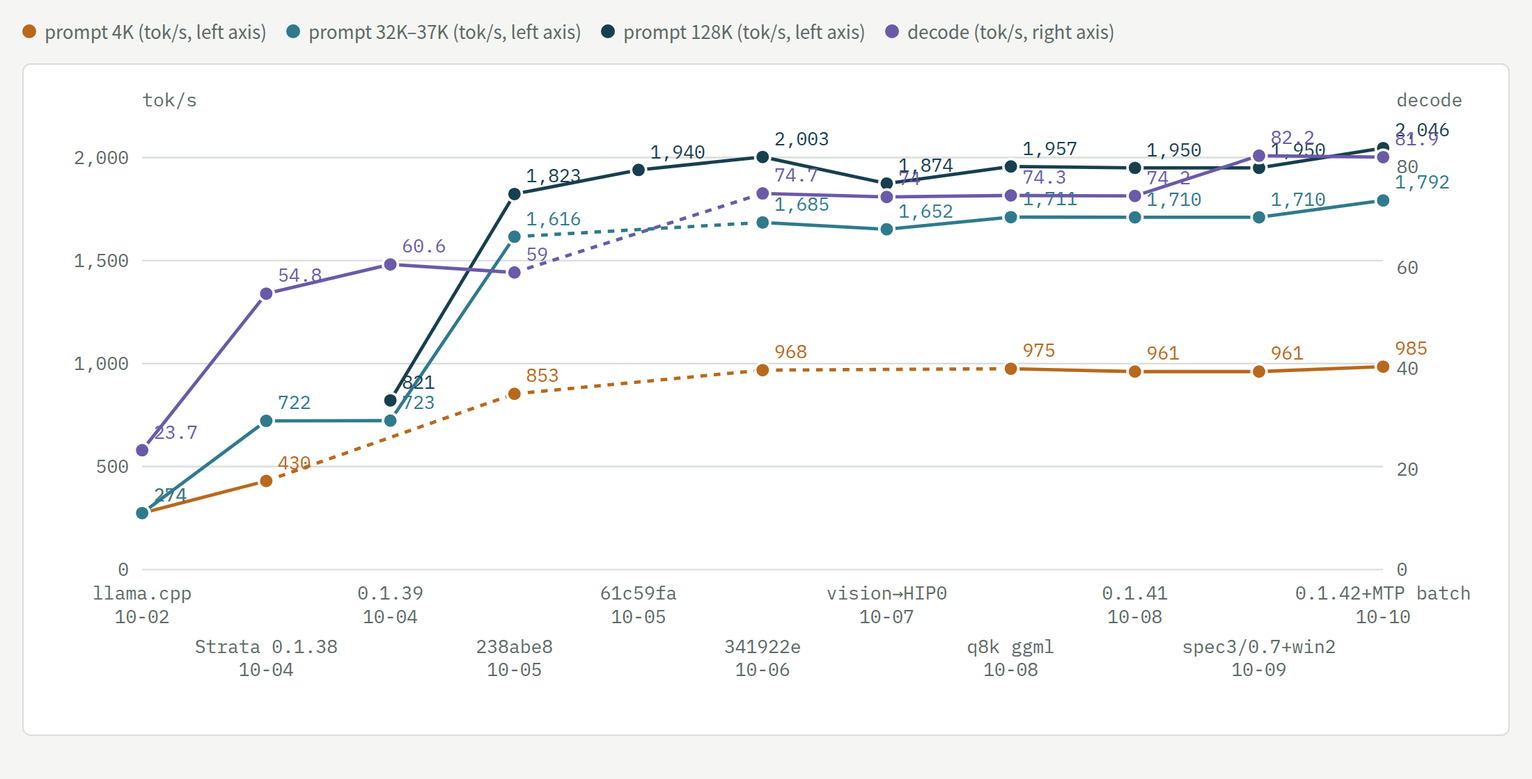
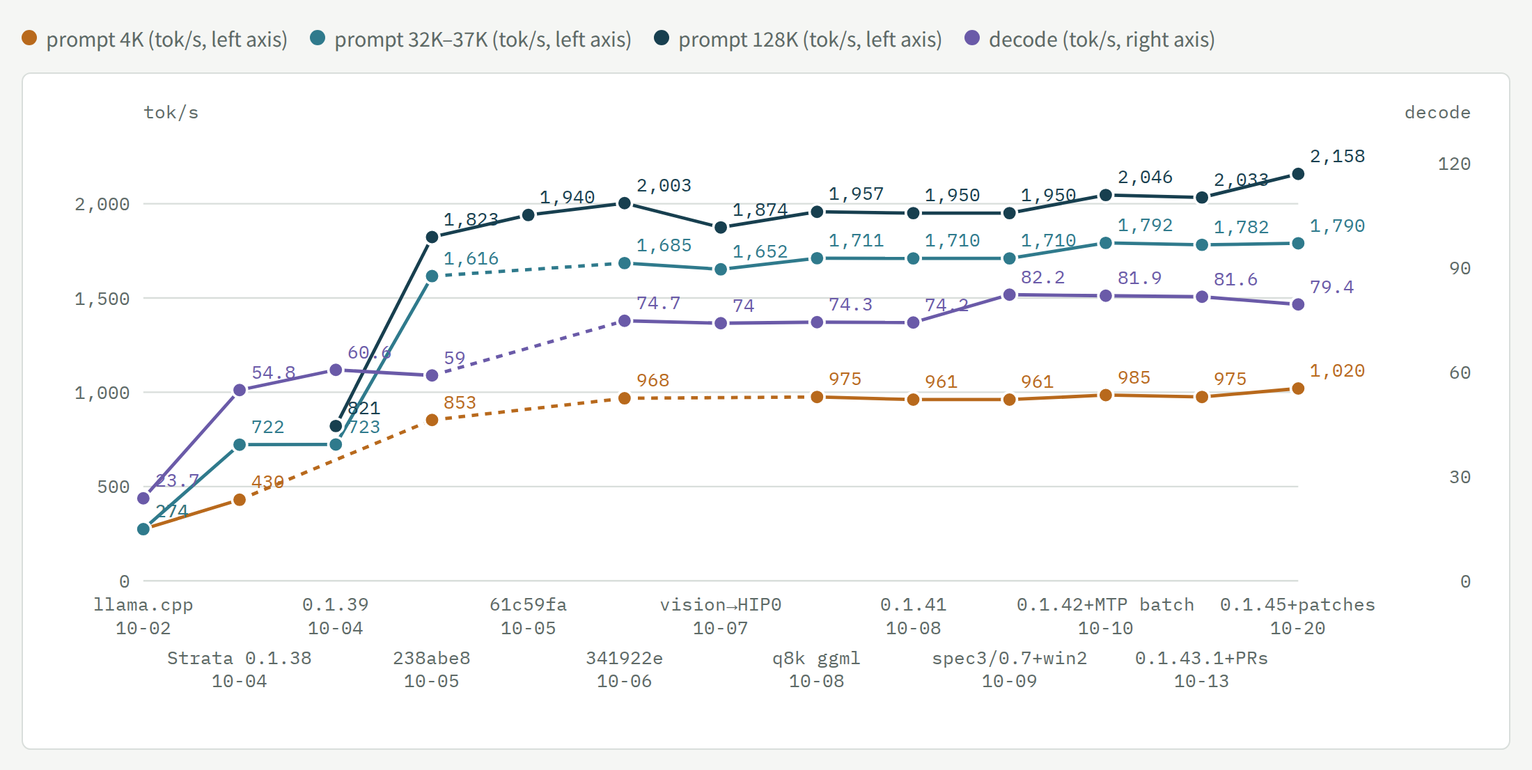
Production to 10-20 (strata-145-pa-a6572b34, E504: 1,020 / 1,790 / 2,158 tok/s, decode 80 / 79 / 74): timeline 10-13 to 10-20, mechanisms and mistakes, 0.2.0-beta report #3426 and PRs #3381 / #3382 / #3073 / #3095; now cards and speed chart re-rendered (tools/render_charts.py)
The speed chart gets the 10-20 point, a 0-130 right axis and a wider right margin so the decode line and the last labels no longer sit on the prompt lines; the "batch slots do not help this box" conclusion of 10-08 is marked overturned (production runs "parallel": 2 since 10-15).

diff --git a/index.html b/index.html
@@ -73,20 +73,20 @@ code{font-family:var(--f-data);font-size:.92em}
 <body>
 <div class="wrap">
 <header>
-  <div class="eyebrow">AiBox · 2× RX 6900 XT · Qwen3.8-Flash-Next IQ3_S · 09-30 → 10-13</div>
+  <div class="eyebrow">AiBox · 2× RX 6900 XT · Qwen3.8-Flash-Next IQ3_S · 09-30 → 10-20</div>
   <h1>Flash-Next 调优时间线</h1>
   <p class="lede">同一个模型（IQ3_S）在这台机器上从 llama.cpp 换到 Strata，再一步步叠加改动。每一步写了当时为什么这么做和实测效果；虚线框是试过但没采用的方向。速度一律指双卡 layer split。</p>
 </header>
 
 <section>
-  <h2>现在（strata-144-hcpa-efa52cd1：0.1.44 + 常驻 hc 读 + E387 解码配置 + SPLIT_MTP_BATCH）</h2>
+  <h2>现在（strata-145-pa-a6572b34：0.1.45 + #2985 流水 MTP + 5 个自有补丁 + E387 解码配置）</h2>
   <div class="now">
-    <div><b>985</b><small>4K prompt tok/s（E415）</small></div>
-    <div><b>1,792</b><small>32K prompt tok/s（E415；三轮均值 1,829）</small></div>
-    <div><b>2,046</b><small>128K prompt tok/s（E415，无图片编码器）</small></div>
-    <div><b>77 / 82 / 75</b><small>解码 tok/s，4K / 32K / 128K（E415；真实会话 138K 上下文 78）；之前 66–75</small></div>
+    <div><b>1,020</b><small>4K prompt tok/s（E504，三次中位）</small></div>
+    <div><b>1,790</b><small>32K prompt tok/s（E504）</small></div>
+    <div><b>2,158</b><small>128K prompt tok/s（E504，无图片编码器；10-10 是 2,046）</small></div>
+    <div><b>80 / 79 / 74</b><small>解码 tok/s，4K / 32K / 128K（E504，单请求）；两路并发合计 60–64（E481）</small></div>
   </div>
-  <p class="foot">生产（10-13 20:10 起）= Strata 上游 0.1.44 + STRATA_SPLIT_MTP_BATCH=1 + 7 个本地补丁（PR #1149 / #1151 / #1167 + rocBLAS 解的本机缓存）+ 验证器 hc 读常驻内核（PR #2226，STRATA_HC_PERSIST=1）+ 自改的 llama.cpp ggml（MMQ 的 q8_0 / iq3_s dot 链头用 VOP3P 编码）；对 0.1.42 底座的同一套（回退槽）32K 每窗 −1.4%，其余噪声内（E455）。上面四个数是 E415（常驻 hc 读之前）；常驻 hc 读之后每个验证窗口再短 2.5–2.8%（E427）和 0.8–1.4%（E439），tok/s 没按 E415 的方法重测。UD-Q4 槽仍在 0.1.42。</p>
+  <p class="foot">生产（10-19 20:30 起）= Strata 上游 0.1.45 + #2985 流水 MTP（STRATA_PIPED_MTP=2，JacobSussan）+ 自有补丁：单路保留 pipeline-windows（STRATA_PW_WITH_BATCH=1，PR #3095）、HIP 上的 SIMT=2 打分（PR #3073）、--batch 下的 CPU 分担（PR #3382）、RDNA2 读 prompt 注意力（PR #3381）、rocBLAS 解的本机缓存 + STRATA_PREFILL_STREAM_MIN=2048 + 自改的 llama.cpp ggml（MMQ dot 链头用 VOP3P 编码）；验证器 hc 常驻读（#2226）等早先的 PR 已在上游。两路并发（parallel 2）。四个数是 E504（同 E415 的合成负载 benchmark.py，三次中位）。</p>
 </section>
 
 <section>
@@ -123,7 +123,7 @@ code{font-family:var(--f-data);font-size:.92em}
   <h2>已经到地板的（10-08 后别再提）</h2>
   <ul class="closed">
     <li><b>解码的配置级旋钮单独调都到头了：</b><code>--kv-resident</code> 缩小（E382，专家槽只 +0.7%）、单开 <code>--pipeline-windows 2</code>（E384，+1–6%）、<code>--spec</code> × <code>--spec-min-p</code> 16 点网格（E385，pipeline-windows 1 下 4/0.5 是峰值）。<b>但组合有效</b>：spec 3 / min-p 0.7 + pipeline-windows 2 解码 +10–16%（E387，三轮确认，10-09 上生产）。</li>
-    <li><b>并发批槽：</b>常驻专家 41% 低于上游门槛 50%，槽里不带 MTP，2 路并发总吞吐不如单路（上游表）。</li>
+    <li><b>并发批槽（10-08 的结论，10-15 推翻）：</b>当时常驻专家 41% 低于上游门槛、槽里不带 MTP；加上槽位草稿、单路保留流水窗口和后来的 #2985 后，两路并发已是生产（parallel 2）。</li>
     <li><b>IQ3_S 的 MMQ 分块 / stream-K</b>（E279/E280）、<code>--prefill</code> chunk 8192 即甜点（E296）、张量并行（E234，+6%）。</li>
     <li><b>上游自己测过对小卡无益：</b>GDN 分块（需 128 SM）、Foresight 交换槽（解码变慢）、STAGE_PIN（IQ3_S 损坏，改回 opt-in）。</li>
     <li><b>0.1.42 的 opt-in（E413）和把 llama.cpp MMQ 补丁带进 Strata（E414）：</b>只有 <code>STRATA_SPLIT_MTP_BATCH=1</code> 过线（已上生产）；TAIL_SKIP / ROUTE_RESIDENT / aux-cpus 在噪声内或更慢，RESIDENT_SORT / PF_FUSED 本机不触发；ggml 补丁在 Strata 的专家 GEMM 上 ±1%。</li>
@@ -153,14 +153,15 @@ const M=[
   {k:'spec3/0.7+win2\n10-09',p4:961,p32:1710,p128:1950,d:82.2},
   {k:'0.1.42+MTP batch\n10-10',p4:985,p32:1792,p128:2046,d:81.9},
   {k:'0.1.43.1+PRs\n10-13',p4:975,p32:1782,p128:2033,d:81.6},
+  {k:'0.1.45+补丁\n10-20',p4:1020,p32:1790,p128:2158,d:79.4},
 ];
 (function(){
-  const W=860,H=372,L=56,R=60,T=16,B=84;
+  const W=860,H=372,L=56,R=110,T=16,B=84;
   const svg=el('svg',{viewBox:`0 0 ${W} ${H}`});
   const xs=i=>L+(W-L-R)*i/(M.length-1);
-  const yl=v=>T+(H-T-B)*(1-v/2200), yr=v=>T+(H-T-B)*(1-v/90);
+  const yl=v=>T+(H-T-B)*(1-v/2400), yr=v=>T+(H-T-B)*(1-v/130);
   [0,500,1000,1500,2000].forEach(v=>{svg.append(el('line',{x1:L,x2:W-R,y1:yl(v),y2:yl(v),stroke:'var(--rule)'}));svg.append(el('text',{x:L-8,y:yl(v)+4,'text-anchor':'end'},v.toLocaleString('en-US')));});
-  [0,20,40,60,80].forEach(v=>svg.append(el('text',{x:W-R+8,y:yr(v)+4},String(v))));
+  [0,30,60,90,120].forEach(v=>svg.append(el('text',{x:W-6,y:yr(v)+4,'text-anchor':'end'},String(v))));
   M.forEach((m,i)=>{m.k.split('\n').forEach((s,j)=>svg.append(el('text',{x:xs(i),y:H-B+18+j*14+(i%2)*32,'text-anchor':'middle'},s)));});
   const series=[['p4','var(--l-stable)',yl],['p32','var(--l-prompt)',yl],['p128','var(--l-engine)',yl],['d','var(--l-decode)',yr]];
   series.forEach(([key,col,y])=>{
@@ -173,7 +174,7 @@ const M=[
       svg.append(el('text',{x:xs(i)+7,y:y(v)-7,style:`fill:${col}`},v>=1000?v.toLocaleString('en-US'):String(v)));});
   });
   svg.append(el('text',{x:L,y:10},'tok/s'));
-  svg.append(el('text',{x:W-R+8,y:10},'解码'));
+  svg.append(el('text',{x:W-6,y:10,'text-anchor':'end'},'解码'));
   document.getElementById('speed').append(svg);
 })();
 
@@ -253,6 +254,15 @@ const S=[
  ['10-13','13:46','prompt','时间分解：原版对比调优后（E449，README 0.5 节）','同一版本 0.1.43.1 上把两边的 prompt 与解码按阶段拆开',[['prompt ×2.1~2.3（GDN 段 594 → 153 ms/千 token），解码 ×1.23~1.30','up'],['调优后专家段成了 prompt 最大的一块','flat']]],
  ['10-13','15:42','drop','prompt 专家段：MMQ 上限、tile 宽度、原地读（E450–E452）','专家段占调优后 prompt 的 ~37%，看还能不能挖',[['MMQ 在真实形状上 28–34 TOPS 封顶；换 tile 宽度不省时','flat'],['原地读、不再搬运（输出逐位相同）只 +0.5%，不采用','down']]],
  ['10-13','18:29','drop','0.1.44 的 STRATA_HC_Q8 在 gfx1030（E454）','hc 投影改读 Q8_0，RDNA4 上默认开、解码 +2.5~4%；它会让常驻 hc 读让位',[['每窗 4K +2.4%、32K +1.0%（更慢），prompt −0.7~1%','down'],['本机 hc 读受发射限制，不受带宽限制','flat']]],
+ ['10-13','23:40','prompt','#2071 的 SIMT=2 打分在 HIP 上接通（E457）','上游的 =2 只在 CUDA 生效，HIP 上静默退回 warp 核',[['prompt +1%（0.1.44）；0.2.0 上 119K −6.5%（E503，10/10）','up'],['送 PR #3073','flat']]],
+ ['10-15','19:30','decode','两路并发 A/B/C（E463–E470，strata-144-pmtp-a380c2c0）','parallel 2 下第二个请求要等 12 s；--batch 还关掉了单路的 pipeline-windows',[['第二请求首字 12 → 0.5 s，长读插短 37 → 8 s，两路 +6%','up'],['A = 单路保留 pipeline-windows（PR #3095）','flat']]],
+ ['10-18','13:09','engine','生产升 0.1.45（strata-145-acx，E475）','原版 0.1.45 缺 A，单路解码 −11~16%；带上 A + C + SIMT2 后持平',[['与旧生产打平，补丁从 9 个减到 3 个','flat']]],
+ ['10-18','21:10','decode','上游 #2985 流水 MTP 换掉我们的 C（E481）','JacobSussan 的延迟提交做法：接受后不回填重算',[['两路总吞吐 +13%，单路与交接不变，找针 14/14','up']]],
+ ['10-19','02:20','prompt','STRATA_PREFILL_STREAM_MIN=2048（E482–E485）','<2K 的短 prompt 有 43–54% 时间在等 PCIe 搬专家',[['真实文本 1.1–1.5K −6~17%，≥2048 不变','up'],['合成提示词让 3072 看起来更好，真实文本否掉','flat']]],
+ ['10-19','17:40','prompt','--batch 下也用 CPU 分担（E493/E494，PR #3382）','上游 batch>0 时直接关掉 CPU 分担',[['<2048 token 的读 −20~35%，续写 455 token 1.86 → 1.25 s','up'],['≥2048 与并发不变','flat']]],
+ ['10-19','20:30','prompt','RDNA2 读 prompt 注意力（E495–E498e，PR #3381）','gfx103x 读 prompt 借用解码内核：64 单元切块 + 合并',[['注意力每块 500 → 355 ms，34K / 133K −3.5%','up'],['质量门（8 段对 FP64 注意力参照）不劣','flat']]],
+ ['10-19','22:15','drop','SeqMoE 式专家预取的上界（E499）','26.6 万条真实 agent 路由回放',[['现缓存命中 85%，高于全知静态集；完美的 8 窗预测器也不更好','down'],['杠杆是每窗换入量，不是预测','flat']]],
+ ['10-20','03:10','engine','两个补丁按上游新规在 0.2.0 上复测并发 PR（E501–E503）','setup.py 构建、逐字节默认路径、ctest、10 对交错、FP64 参照质量门、CUDA 13.2 编译',[['#3381 −3.49%（10/10）、#3382 短读 −28.8%（10/10）','up'],['#3073 / #3095 在 0.2.0 上 −6.5% / +12~16%','up']]],
  ['10-13','20:10','engine','生产升 0.1.44（strata-144-hcpa-efa52cd1，E454/E455）','补丁合入只有 setup.py 一处冲突；用生产配置原样对现生产 A/B',[['32K 每窗 −1.4%（3/3），其余噪声内，0 停转','up'],['UD-Q4 槽不升：K-quant prompt 要 STRATA_MMQ_KQ=1，加后解码 −1.2%','flat']]],
 ];
 const on=new Set(Object.keys(LANES));

diff --git a/tools/render_charts.py b/tools/render_charts.py
@@ -1,0 +1,61 @@
+#!/usr/bin/env python3
+"""Render the README images from index.html: the "now" cards and the speed chart, light and dark, Chinese and English.
+
+    CHROME=/path/to/chrome-headless-shell python3 tools/render_charts.py [en.json]
+
+Each image is index.html with only one section left, a fixed theme (data-theme), and for English the section's Chinese
+strings replaced from en.json ({"中文": "English", ...}). Output: docs/now-{en,zh}-{light,dark}.png and
+docs/speed-chart-en-{light,dark}.png and docs/speed-chart-{light,dark}.png (Chinese) (2200 px wide, device scale 2.2); OUT=dir writes them elsewhere."""
+import json, os, re, subprocess, sys, tempfile
+
+ROOT = os.path.dirname(os.path.dirname(os.path.abspath(__file__)))
+CHROME = os.environ.get("CHROME", "chrome-headless-shell")
+OUT = os.environ.get("OUT", os.path.join(ROOT, "docs"))   # where the PNGs go
+EN = json.load(open(sys.argv[1], encoding="utf-8")) if len(sys.argv) > 1 else {}
+SRC = open(os.path.join(ROOT, "index.html"), encoding="utf-8").read()
+# target -> (index of the <section> to keep, CSS width in px, extra CSS); the height is trimmed to the content afterwards
+TARGETS = {"now": (0, 1000, ""),
+           "speed-chart": (1, 1000, "section h2,section .panel+.foot,section p.foot{display:none!important}")}
+
+def page(section, theme, lang, extra):
+    html = SRC.replace('<html lang="zh-CN">', f'<html lang="{"en" if lang == "en" else "zh-CN"}" data-theme="{theme}">')
+    keep = f"section:nth-of-type({section + 1})"
+    css = (f"<style>header,section:not({keep}),.wrap>p.foot{{display:none!important}}"
+           f".wrap{{max-width:none!important;margin:0!important;padding:14px!important}}body{{margin:0}}{extra}</style></head>")
+    html = html.replace("</head>", css, 1)
+    if lang == "en":
+        for zh, en in sorted(EN.items(), key=lambda kv: -len(kv[0])):   # longest first, so phrases win over words
+            html = html.replace(zh, en)
+    return html
+
+def trim(path, pad=30):
+    """Cut the rows below the content: the bottom rows that are all the page background."""
+    from PIL import Image
+    im = Image.open(path).convert("RGB")
+    w, h = im.size
+    bg = im.getpixel((2, h - 2))
+    px = im.load()
+    y = h - 1
+    while y > 0 and all(px[x, y] == bg for x in range(0, w, 4)):
+        y -= 1
+    im.crop((0, 0, w, min(h, y + pad))).save(path)
+
+def main():
+    os.makedirs(OUT, exist_ok=True)
+    with tempfile.TemporaryDirectory() as tmp:
+        for name, (sec, w, extra) in TARGETS.items():
+            for lang in ("zh", "en"):
+                for theme in ("light", "dark"):
+                    f = os.path.join(tmp, f"{name}-{lang}-{theme}.html")
+                    open(f, "w", encoding="utf-8").write(page(sec, theme, lang, extra))
+                    # the Chinese speed chart keeps its first name (speed-chart-light.png), which README.zh-CN.md links
+                    stem = f"{name}-{theme}" if (name == "speed-chart" and lang == "zh") else f"{name}-{lang}-{theme}"
+                    out = os.path.join(OUT, stem + ".png")
+                    subprocess.run([CHROME, "--headless", "--no-sandbox", "--disable-gpu", "--hide-scrollbars", "--force-device-scale-factor=2.2",
+                                    f"--window-size={w},1400", f"--screenshot={out}", "--virtual-time-budget=3000",
+                                    "file://" + f], check=True, capture_output=True)
+                    trim(out)
+                    print(out)
+
+if __name__ == "__main__":
+    main()

diff --git a/README.md b/README.md
@@ -11,12 +11,12 @@
 
 <picture>
   <source media="(prefers-color-scheme: dark)" srcset="docs/speed-chart-en-dark.png">
-  <img alt="Prompt and decode speed, step by step, llama.cpp 10-02 to Strata 0.1.42 10-10" src="docs/speed-chart-en-light.png" width="100%">
+  <img alt="Prompt and decode speed, step by step, llama.cpp 10-02 to Strata 0.1.45 + patches 10-20" src="docs/speed-chart-en-light.png" width="100%">
 </picture>
 
-*Prompt tok/s at 4K, 32K–37K and 128K (left axis) and decode tok/s (right axis) at each production state. Points come from different experiments under slightly different conditions (the 4K points of the first two steps are 5K prompts; the notes under the chart on the interactive page list the rest); a dashed segment bridges a step where that metric was not measured.*
+*Prompt tok/s at 4K, 32K–37K and 128K (left axis) and decode tok/s (right axis) at each production state. Points come from different experiments under slightly different conditions (the 4K points of the first two steps are 5K prompts; the last point is E504, the E415 load on the 10-20 production; the notes under the chart on the interactive page list the rest); a dashed segment bridges a step where that metric was not measured.*
 
-Tuning log for **Qwen3.8-Flash-Next (GSQ-RCO IQ3_S)** on a home box with **2x AMD RX 6900 XT (gfx1030, PCIe 4.0 x8 each) / Ryzen 5 5600X / 128 GB DDR4**, ROCm 10.0 — from llama.cpp to [Strata](https://github.com/Niko1221/Strata), 2026-09-21 → 10-08. Experiment numbers (E…) refer to the author's lab notebook (not public). Every number is measured on this machine unless marked as an estimate.
+Tuning log for **Qwen3.8-Flash-Next (GSQ-RCO IQ3_S)** on a home box with **2x AMD RX 6900 XT (gfx1030, PCIe 4.0 x8 each) / Ryzen 5 5600X / 128 GB DDR4**, ROCm 10.0 — from llama.cpp to [Strata](https://github.com/Niko1221/Strata), 2026-09-21 → 10-20. Experiment numbers (E…) refer to the author's lab notebook (not public). Every number is measured on this machine unless marked as an estimate.
 
 **`patches/llama.cpp/`** — eight llama.cpp patches on upstream `159c651f5`: 1–7 are the RDNA2 MMQ work behind the `q8k ggml` step (wider tiles, mad24 scales, Q8_K-style activations, VOP3P dot-chain heads), 8 is an int8 QK^T flash-attention tile kernel for a q8_0 K cache; build flags and measured effects in [their README](patches/llama.cpp/README.md). Strata picks the MMQ ones up through `-DSTRATA_GGML_DIR`. They were made on the dense **Qwen3.8-27B** that the same two cards serve through llama.cpp — that line of work is in [section 4](#4-the-dense-27b-on-the-same-box-qwen38-27b-ud-q5_k_xl-on-llamacpp-qwen38-tp).
 
@@ -38,11 +38,11 @@ Tuning log for **Qwen3.8-Flash-Next (GSQ-RCO IQ3_S)** on a home box with **2x AM
 
 ## 0. Where it stands
 
-- **Production (since 10-13 20:10):** Strata upstream **0.1.44** + 7 local patches (upstream PRs #1149 / #1151 / #1167 + a per-device rocBLAS solution cache) + the verifier's hc read as one persistent kernel ([#2226](https://github.com/Niko1221/Strata/pull/2226), `STRATA_HC_PERSIST=1`) + a modified llama.cpp ggml (MMQ dot-chain heads in the VOP3P encoding on RDNA2), `strata-144-hcpa-efa52cd1`; rollback slot `strata-split-prev` = `strata-142-hcpa-2712fb13` (the same on 0.1.42). Against it, with the production config as is (E455): 32K decode −1.4% per verify window (3 of 3 rounds), 4K, prompt and 128K within noise, no stalls. Two-card layer split, IQ3_S experts, int8 KV, MTP `--spec 3 --spec-min-p 0.7 --pipeline-windows 2` (E387) and `STRATA_SPLIT_MTP_BATCH=1` (E413). `STRATA_HC_Q8` (on by default on RDNA4 in 0.1.44) excludes the persistent read and is 1–2.4% slower per window on gfx1030 (E454), so it stays off. The `strata-ud-q4` slot (Unsloth UD-Q4_K_XL) stays on 0.1.42 (`strata-142-kq-hcpa-2712fb13`): on 0.1.44 its K-quant prompt kernels need `STRATA_MMQ_KQ=1` (without it prompts are 30–37% slower), and with it decode was 1.2% slower at 32K. Upstream #884 does not reproduce on 0.1.43.1 or 0.1.44 stock here (E453 / E454).
-- **Speed (production config, E415, no vision encoder):** prompt 985 / 1,792 / 2,046 tok/s at 4K / 32K / 128K, decode 77 / 82 / 75; the persistent hc read then took 2.5–2.8% off every verify window (E427) and its adaptive form another 0.8–1.4% (E439) - tok/s not re-measured the E415 way. On 0.1.43.1 with the same bundle and the timing switches on (E449, section 0.5): 926 / 1,729 / 1,968, decode 77.4 / 79.8 / 78.9. UD-Q4_K_XL on the same split with the same decode config (E423): 748 / 1,738 / 1,976, decode 51 / 52 / 50; on one card 676 / 1,117 / 1,087, decode 32–33. Full comparisons in the community reports [#1927](https://github.com/Niko1221/Strata/pull/1927) (0.1.42) and [#2237](https://github.com/Niko1221/Strata/pull/2237) (0.1.43.1).
+- **Production (since 10-19 20:30):** `strata-145-pa-a6572b34` = Strata upstream **0.1.45** + #2985's pipelined MTP (`STRATA_PIPED_MTP=2`, JacobSussan) + five patches of ours: the solo path keeps `--pipeline-windows` beside batch slots (`STRATA_PW_WITH_BATCH=1`, [#3095](https://github.com/Niko1221/Strata/pull/3095)), #2071's SIMT=2 scorer on HIP ([#3073](https://github.com/Niko1221/Strata/pull/3073)), the prompt's CPU share beside `--batch` (`STRATA_PREFILL_CPU_SHARE_BATCH=1`, [#3382](https://github.com/Niko1221/Strata/pull/3382)), a gfx103x prompt-attention kernel (`STRATA_PROMPT_ATTN_RDNA2=1`, [#3381](https://github.com/Niko1221/Strata/pull/3381)), a per-device rocBLAS solution cache; plus `STRATA_PREFILL_STREAM_MIN=2048` and the modified llama.cpp ggml (MMQ dot-chain heads in VOP3P). The earlier PRs (#1149, #1151, #1167, #1992, #2226) are in upstream main. Two parallel slots (`"parallel": 2`), layer split, IQ3_S experts, int8 KV, `--spec 3 --spec-min-p 0.7 --pipeline-windows 2`. Rollback slot `strata-split-prev` = the same without the attention kernel.
+- **Speed (E504, the E415 load, no vision encoder, median of 3):** prompt **1,020 / 1,790 / 2,158** tok/s at 4K / 32K / 128K (E415 on 10-10: 985 / 1,792 / 2,046), decode **80 / 79 / 74** for one request; two requests at once 60–64 tok/s together (E481), a second request's first token 0.5 s instead of 12 s (E463–E470). Short prompts: a 430-token read 1.1 s (was 1.7 s, E493). Upstream **0.2.0-beta** stock on the same box and settings (E503, community report [#3426](https://github.com/Niko1221/Strata/pull/3426)): 979 / 1,662 tok/s at 4K / 32K with its own suite, 1,893 at 119K real text, decode 66 for one request - our patches are the difference (each re-measured on 0.2.0 in the PRs above).
 - **Whole journey, same IQ3_S model:** decode 26 → 66–75 tok/s (≈2.7×), 37K/50K prompt 274 → ~1,700 tok/s (≈6×). The engine switch (llama.cpp → Strata) is most of it; the patches and configuration after that add about +50% prompt (714 → 1,433 → 1,705 → 1,711) and about +20% decode.
-- **Closed directions (measured; do not retry on this box):** every decode-side configuration knob — `--kv-resident` shrink (E382), `--pipeline-windows 2` alone (E384, +1–6%), the 16-point `--spec` × `--spec-min-p` grid at `--pipeline-windows 1` (E385, 4/0.5 is the peak of accepted tokens per window) — **but the combination works**: `--spec 3 --spec-min-p 0.7 --pipeline-windows 2` decodes +10–16% at 4K and +8–11% at 32K (E387, three confirmation rounds; the short draft is accepted 83% of the time instead of 68%, so the speculative second window hits). Prompt speed unchanged; output differs between starts (the baseline is deterministic); 128K +11% in the no-vision-encoder configuration (E388); in production since 10-09 00:16; batch slots (resident experts 41% < upstream's 50% gate, slots decode without MTP); MMQ tile / stream-K for IQ3_S (E279/E280); `--prefill` chunks other than 8192 (E296); tensor parallel (E234, +6%); and the upstream opt-ins that upstream itself measured as neutral or negative on small cards (chunked GDN, Foresight swap slots, pinned stage buffers).
-- **What is left:** the PCIe topology (x16 + x4 would give ~1.5× on long prompts but breaks RCCL tensor parallel for the dense 27B model on the same box - a trade the owner has not made). The prompt's experts, now its largest part, are closed (E450–E452, section 0.5); decode is at its floor for this VRAM (expert hits and draft acceptance). Four engine PRs were re-measured on 0.1.43.1 with ten interleaved pairs each on 10-13 (#2226, #1167, #1992, #1151) and wait for upstream.
+- **Closed directions (measured; do not retry on this box):** every decode-side configuration knob — `--kv-resident` shrink (E382), `--pipeline-windows 2` alone (E384, +1–6%), the 16-point `--spec` × `--spec-min-p` grid at `--pipeline-windows 1` (E385, 4/0.5 is the peak of accepted tokens per window) — **but the combination works**: `--spec 3 --spec-min-p 0.7 --pipeline-windows 2` decodes +10–16% at 4K and +8–11% at 32K (E387, three confirmation rounds; the short draft is accepted 83% of the time instead of 68%, so the speculative second window hits). Prompt speed unchanged; output differs between starts (the baseline is deterministic); 128K +11% in the no-vision-encoder configuration (E388); in production since 10-09 00:16; batch slots as evaluated on 10-08 (resident experts 41% < upstream's 50% gate, slots decode without MTP; **overturned 10-15**: with slot drafts, the solo path kept pipelined and later #2985, `"parallel": 2` is production); MMQ tile / stream-K for IQ3_S (E279/E280); `--prefill` chunks other than 8192 (E296); tensor parallel (E234, +6%); and the upstream opt-ins that upstream itself measured as neutral or negative on small cards (chunked GDN, Foresight swap slots, pinned stage buffers).
+- **What is left:** the PCIe topology for long prompts (x8/x8 kept: on Strata a long prompt waits on PCIe only 0.2–0.7% of the time, but a <2K one 43–54%, E482); more expert swaps per decode window (E499: the adaptive cache already hits 85%, a perfect 8-window predictor would not beat it at today's swap rate - the swap budget is the lever, untested). Four PRs wait for upstream review on 0.2.0-beta (#3381, #3382, and #3073 / #3095 reopened 10-20 with the E503 numbers).
 
 ## 0.5 Where the time goes: stock against tuned (0.1.43.1, E449)
 
@@ -143,6 +143,15 @@ The numbers in the charts (the phases are estimates, the totals measured; prompt
 | 10-08 21:27 | E384 `--pipeline-windows 2` | decode +1–6% but outputs differ between starts (2/7 same), 4K prompt −1–5%; dropped |
 | 10-08 21:50 | E385 `--spec` × `--spec-min-p`, 16 points | only 5/0.6 at 32K +2.5% (single run); the rest negative; 4/0.5 kept |
 | 10-08 22:50 | batch slots evaluated | resident experts 41% < upstream gate 50%; slots decode without MTP; not for this box |
+| 10-13 23:40 | production → `strata-144-hcps-fb15a4e6`: #1151 plus #2071's `STRATA_SELECT_SIMT=2` scorer, which upstream compiled for CUDA only and silently fell back on HIP (E457) | prompt +1% over the SGEMM scorer; later sent as #3073 |
+| 10-15 | two or three requests at once (`"parallel": 2`, E463–E470): A = keep `--pipeline-windows` for a lone request beside batch slots (`STRATA_PW_WITH_BATCH=1`), B = a long read yields at chunk boundaries, C = slot drafts in the pipelined groups (davidbhoward's work, ported) | a second request's first token 12 → 0.5 s, a short request beside a long read 37 → 8 s, two streams +6%; single-stream decode −2–6% against the solo setup; production 10-15 19:30 (`strata-144-pmtp-a380c2c0`); A sent as #3095 |
+| 10-18 13:09 | upstream 0.1.45 (E475): stock lacks A, so a lone request decodes 11–16% slower; 0.1.45 + A + C + SIMT=2 matches the old production | production `strata-145-acx-2e127c66` |
+| 10-18 21:10 | upstream #2985 (`STRATA_PIPED_MTP=2`, JacobSussan) in place of our C (E481) | two-stream throughput +13% over C, single stream and the long-read hand-over unchanged, needle 14/14; production `strata-145-2985-3f53fb74` |
+| 10-19 02:20 | `STRATA_PREFILL_STREAM_MIN=2048` (E482–E485): below the full-streaming chunk size a short read copies only its routed experts over PCIe, and that wait is 43–54% of a <2K-token read | real-text 1,090–1,542-token prompts −6–17%, a 779-token continuation −7%, ≥2,048 unchanged; 3072 was slower at 2–3K (E485). A synthetic word-list prompt made 3072 look better (E483) - routing-sensitive switches need real text |
+| 10-19 17:40 | `STRATA_PREFILL_CPU_SHARE_BATCH=1` (ours, E493/E494): the prompt's CPU share was off whenever `--batch` was set | real-text reads under 2,048 tokens −20–35%, a 455-token continuation 1.86 → 1.25 s, concurrency unchanged; production `strata-145-csb-de8b8636`; PR #3382 |
+| 10-19 20:30 | `STRATA_PROMPT_ATTN_RDNA2=1` (ours, E495–E498e): gfx103x's prompt attention ran the decode kernel (64-cell splits + merge); one block per (query, KV head), online softmax, 4 dimensions per thread in the value phase | QSA attention per 8,192-token chunk 500 → 355 ms, 34K / 133K prompt −3.5%; quality gate (8 chats against an FP64-attention reference) not worse; production `strata-145-pa-a6572b34`; PR #3381 |
+| 10-19 22:15 | SeqMoE-style expert prefetch, upper bound first (E499): 266K routing records of four real agent conversations replayed against cache policies | the adaptive cache already hits 85.3 / 85.1% (above the best static set); a perfect 8-window predictor at the engine's swap rate would not beat it - dropped; more swaps per window, not prediction, is the lever (untested) |
+| 10-20 | the patches re-measured on 0.2.0 main as upstream's new rules ask (E501–E502): setup.py build options, default path byte-identical, ctest against main, 10 interleaved cold-start pairs, FP64-reference quality gate, CUDA 13.2 compile | RDNA2 attention −3.49% at 31K and 119K (10/10 each); CPU share with --batch −28.8% under 2,048 tokens (10/10); sent as #3381 / #3382; #3073 −6.5% at 119K and #3095 +12–16% single-stream decode on 0.2.0 (10/10 each, E503) |
 
 ## 2. What was learned about the mechanisms
 
@@ -152,6 +161,11 @@ The numbers in the charts (the phases are estimates, the totals measured; prompt
 - Strata can stream KV from RAM because QSA attention is sparse (98.7% of block reads hit VRAM); a full-attention model (the dense 27B on the same box) has no such path.
 - The GFXOFF ↔ ROCm CP-barrier interaction is the root of the stalls (#884, drm/amd #5945); the mitigation is kernel-copy, not the guard.
 - The layer-split point is a decode knob on its own: without the vision encoder the second card has 1.7 GiB more free, the auto split moves from 0-26/27-47 to 0-24/25-47 and 32K decode drops 74 → 69 (−8%) while the hit rate goes up; with `--pipeline-windows 2` both splits reach 82 (E388). A manual `layer_split` sweep has not been done.
+- A short prompt is a PCIe problem, a long one is not: below the full-streaming chunk size (`stream_all_min`) a chunk copies only its routed experts, and with ~10 of 512 experts per token a few hundred tokens touch most of them - 43–54% of a <2K read waits on PCIe (E482). Hence `STREAM_MIN=2048` and the CPU share for short reads (E485, E493).
+- Routing-sensitive switches must be measured on real text: a repeated word-list prompt routes to few experts and made a setting look better than it is (E483 vs E484/E485).
+- With batch slots upstream turns two things off silently for a lone request: `--pipeline-windows` (−11–16% decode) and the prompt's CPU share. Both came back as opt-ins (#3095, #3382).
+- The expert cache is not prediction-limited (E499): replaying 266K real routing records, the adaptive cache (85%) beats the best static set and Radiance-style decayed LFU is within 1.4 points; foresight only helps when the swap budget per window grows.
+- Kernel accuracy: an end-to-end KL "closer to the FP64 reference" does not mean a kernel is more accurate - it was within the run-to-run spread of equivalent FP32 paths; an operator-level FP64 test said the first version was 1.2–1.4x *less* accurate, and a blocked sum per chunk fixed it at +1.6% time (E498e, E502).
 
 ## 3. Mistakes made along the way (kept so they are not repeated)
 
@@ -165,6 +179,12 @@ The numbers in the charts (the phases are estimates, the totals measured; prompt
 - Built a comparison tree without diffing CMakeCache and lost a bisection to a missing `STRATA_PREFILL_MMQ=ON` (10-04).
 - Wrote "our ggml patches will help #1897" into a draft comment from the 27B kernel numbers, before measuring them inside Strata; measured, they do nothing there (E414). Measure first, then write.
 - A gh comment was not posted because the leak check `grep -c claude.ai` returns exit 1 on zero matches and cut the `&&` chain; use `! grep -q`.
+- Built upstream 0.2.0 from the docs' minimal command, without setup.py's `STRATA_PREFILL_MMQ=ON`, and read a 1.75x slower prompt as a possible regression before diffing CMakeCache - the 10-04 mistake again (E501).
+- Measured with a synthetic word-list prompt for a routing-sensitive switch and nearly put the wrong value in production (E483).
+- Called a kernel "more accurate" from an end-to-end KL ranking; an FP64 unit test showed the opposite (E498e).
+- Stopped an experiment script before its engine: the restore trap put production back while the test engine still held both cards (~12 s, no request came in). Stop the engine first, then the script; never `pgrep -f` a pattern that is in your own command line (E501).
+- A first replay of an expert-cache upper bound treated every expert not needed within the window horizon as never needed again, and produced a "perfect foresight is worse than the real cache" number (E499); the instrumented dump had also been hooked on one of four code paths only.
+- Wrote "the same failures as main" in a PR draft for a build whose tests had not been run; caught before posting.
 
 ## 4. The dense 27B on the same box: Qwen3.8-27B (UD-Q5_K_XL) on llama.cpp, `qwen38-tp`
 
@@ -230,7 +250,8 @@ No block is both large and cheap: MMVQ is at the bandwidth wall, the gaps need f
 
 - `index.html` — the interactive timeline (speed chart of every production state + every step with reason and effect; Chinese; Flash-Next only).
 - `bench/results/e410`, `e411`, `e412` — the 27B raw material: the P/F cold-start A/B of patch 8 (scripts, report, KLD/perf run), the rocprofv3 decode pies and gap analysis (scripts and their text output; the 300–800 MB trace databases are not included), the old/new short-context check.
+- `tools/render_charts.py` (+ `render_charts.en.json`) — renders `docs/now-*` and `docs/speed-chart-*` from `index.html` with a headless Chrome (`CHROME=...`).
 - `bench/run_ab.sh` — A/B skeleton: one cold server per arm, full logs, confirmation lines; `benchmark.py` load generator (4K/32K/128K prompts, fresh nonce each), `ab_compare.py` pairwise text/speed comparison, `monitor_amd.py` telemetry sampler. Paths are placeholders.
-- Upstream community reports from this box: Strata PR #927, #1270, #1657 (0.1.41) and #1927 (0.1.42, UD-Q4_K_XL beside IQ3_S).
+- Upstream community reports from this box: Strata PR #927, #1270, #1657 (0.1.41), #1927 (0.1.42, UD-Q4_K_XL beside IQ3_S) and [#3426](https://github.com/Niko1221/Strata/pull/3426) (0.2.0-beta stock, 10-20). Engine PRs on 0.2.0-beta: #3381, #3382, #3073, #3095.
 
 Developed with an AI coding assistant; every number here was measured on 2x RX 6900 XT (gfx1030, PCIe 4.0 x8 each) / Ryzen 5 5600X, ROCm 10.0.

diff --git a/README.zh-CN.md b/README.zh-CN.md
@@ -11,12 +11,12 @@
 
 <picture>
   <source media="(prefers-color-scheme: dark)" srcset="docs/speed-chart-dark.png">
-  <img alt="Prompt and decode speed, step by step, llama.cpp 10-02 to Strata 0.1.42 10-10" src="docs/speed-chart-light.png" width="100%">
+  <img alt="读 prompt 与解码速度逐步变化：llama.cpp 10-02 到 Strata 0.1.45 + 补丁 10-20" src="docs/speed-chart-light.png" width="100%">
 </picture>
 
-*各生产状态的读 prompt（4K、32K–37K、128K，左轴）和解码（右轴）tok/s。各点来自不同实验、条件不完全相同（前两步的 4K 点是 5K prompt；其余见交互页图下说明）；虚线段表示那一步没测这个指标。*
+*各生产状态的读 prompt（4K、32K–37K、128K，左轴）和解码（右轴）tok/s。各点来自不同实验、条件不完全相同（前两步的 4K 点是 5K prompt；最后一点是 E504，即 10-20 的生产跑 E415 同款负载；其余见交互页图下说明）；虚线段表示那一步没测这个指标。*
 
-在一台家用机器（**2× AMD RX 6900 XT，gfx1030，各 PCIe 4.0 x8 / Ryzen 5 5600X / 128 GB DDR4**，ROCm 10.0）上跑 **Qwen3.8-Flash-Next（GSQ-RCO IQ3_S）** 的调优记录，从 llama.cpp 到 [Strata](https://github.com/Niko1221/Strata)，2026-09-21 → 10-08。
+在一台家用机器（**2× AMD RX 6900 XT，gfx1030，各 PCIe 4.0 x8 / Ryzen 5 5600X / 128 GB DDR4**，ROCm 10.0）上跑 **Qwen3.8-Flash-Next（GSQ-RCO IQ3_S）** 的调优记录，从 llama.cpp 到 [Strata](https://github.com/Niko1221/Strata)，2026-09-21 → 10-20。
 
 `patches/llama.cpp/` 是基于上游 `159c651f5` 的 8 个 llama.cpp 补丁：1–7 是时间线里 `q8k ggml` 那一步背后的 RDNA2 MMQ 工作（更宽的 tile、mad24 缩放、Q8_K 式激活、dot 链头 VOP3P），8 是 q8_0 K cache 的 int8 QK^T flash-attention tile 内核；编译选项和实测见[其 README](patches/llama.cpp/README.md)（英文）；Strata 通过 `-DSTRATA_GGML_DIR` 吃到 MMQ 那几个。这些补丁都是在同一台机器用 llama.cpp 跑的稠密 **Qwen3.8-27B** 上做出来的，那条线见[第 4 节](#4-同一台机器上的稠密-27bqwen38-27bud-q5_k_xlllamacpp-qwen38-tp)。
 
@@ -51,11 +51,11 @@ AiBox：2× RX 6900 XT（gfx1030，各 PCIe 4.0 x8）/ Ryzen 5 5600X / 128 GB，
 
 ## 0. 结论（先看这里）
 
-- **生产（10-13 20:10 起）**：llama-swap `strata-split` / `strata-split-256k` = `strata-144-hcpa-efa52cd1`（Strata 上游 **0.1.44** + 我们 7 个补丁 + 验证器 hc 读常驻内核 [#2226](https://github.com/Niko1221/Strata/pull/2226)，`STRATA_HC_PERSIST=1` + llama-q2k 的 ggml）。回退槽 `strata-split-prev` = strata-142-hcpa-2712fb13（同样的补丁，0.1.42 底座）。和它比（E455，生产配置原样）：32K 每个验证窗口 −1.4%（3 轮同向），4K、prompt、128K 在噪声内，0 停转。解码配置 `--spec 3 --spec-min-p 0.7 --pipeline-windows 2`（E387），加 `STRATA_SPLIT_MTP_BATCH=1`（E413）。0.1.44 在 RDNA4 上默认开的 `STRATA_HC_Q8` 会让常驻读让位，在 gfx1030 上每窗慢 1–2.4%（E454），不开。`strata-ud-q4`（Unsloth UD-Q4_K_XL）留在 0.1.42（strata-142-kq-hcpa-2712fb13）：0.1.44 起它的 K-quant prompt 内核要 `STRATA_MMQ_KQ=1`（不加 prompt 慢 30–37%），加了以后 32K 解码慢 1.2%。上游 #884 在本机 0.1.43.1 和 0.1.44 原版上都不复现（E453 / E454）。
-- **现在的速度**（E415，生产配置，无图片编码器）：prompt 4K 985、32K 1,792、128K 2,046 tok/s，解码 77 / 82 / 75；之后常驻 hc 读让每个验证窗口再省 2.5–2.8%（E427），自适应版再省 0.8–1.4%（E439），tok/s 没有按 E415 的方法重测。0.1.43.1 上同一套补丁、开着计时开关（E449，见 0.5 节）：926 / 1,729 / 1,968，解码 77.4 / 79.8 / 78.9。同样分层、同样解码配置跑 UD-Q4_K_XL（E423）748 / 1,738 / 1,976，解码 51 / 52 / 50；单卡 UD-Q4 676 / 1,117 / 1,087，解码 32–33。完整对比见社区报告 [#1927](https://github.com/Niko1221/Strata/pull/1927)（0.1.42）和 [#2237](https://github.com/Niko1221/Strata/pull/2237)（0.1.43.1）。
+- **生产（10-19 20:30 起）**：`strata-145-pa-a6572b34` = Strata 上游 **0.1.45** + #2985 的流水 MTP（`STRATA_PIPED_MTP=2`，JacobSussan）+ 我们的 5 个补丁：开批槽时单路保留 `--pipeline-windows`（`STRATA_PW_WITH_BATCH=1`，[#3095](https://github.com/Niko1221/Strata/pull/3095)）、HIP 上接通 #2071 的 SIMT=2 打分（[#3073](https://github.com/Niko1221/Strata/pull/3073)）、`--batch` 下读 prompt 也用 CPU 分担（`STRATA_PREFILL_CPU_SHARE_BATCH=1`，[#3382](https://github.com/Niko1221/Strata/pull/3382)）、gfx103x 读 prompt 注意力内核（`STRATA_PROMPT_ATTN_RDNA2=1`，[#3381](https://github.com/Niko1221/Strata/pull/3381)）、rocBLAS 解的本机缓存；外加 `STRATA_PREFILL_STREAM_MIN=2048` 和自改的 llama.cpp ggml。之前的 PR（#1149、#1151、#1167、#1992、#2226）已在上游 main。两路并发（`"parallel": 2`）、双卡分层、IQ3_S 专家、int8 KV、`--spec 3 --spec-min-p 0.7 --pipeline-windows 2`。回退槽 `strata-split-prev` = 去掉注意力内核的同一套。
+- **现在的速度**（E504，E415 同款负载，无图片编码器，三次中位）：prompt **1,020 / 1,790 / 2,158** tok/s（4K / 32K / 128K；10-10 的 E415 是 985 / 1,792 / 2,046），单请求解码 **80 / 79 / 74**；两个请求同时跑合计 60–64 tok/s（E481），第二个请求首字 12 s → 0.5 s（E463–E470）。短 prompt：430 token 读 1.1 s（原来 1.7 s，E493）。同一台机器、同样设置下的上游 **0.2.0-beta** 原版（E503，社区报告 [#3426](https://github.com/Niko1221/Strata/pull/3426)）：自带套件 4K / 32K 979 / 1,662 tok/s，真实文本 119K 1,893，单请求解码 66——差距就是我们的补丁（每个都在上面的 PR 里用 0.2.0 重测过）。
 - **从 llama.cpp 到 Strata 的总账**（同一份 IQ3_S）：解码 26 → 66–75 tok/s（≈2.7×），37K/50K prompt 274 → 1,700（≈6×）。其中 Strata 本身换引擎占大头，之后我们的补丁和配置累计 prompt 约 +50%（714 → 1,433 → 1,705 → 1,711），解码约 +20%。
-- **已经到地板的（别再试）**：解码的配置级杠杆**单独调**全部否定——`--kv-resident` 缩小（E382）、单开 `--pipeline-windows 2`（E384，+1–6%）、pipeline-windows 1 下的 `--spec`/`--spec-min-p` 16 点网格（E385/b，4/0.5 是峰值）；**但组合有效**：`--spec 3 --spec-min-p 0.7 --pipeline-windows 2` 解码 4K +10–16%、32K +8–11%（E387，三轮确认；短草稿接受率 83% vs 68%，第二窗的推测才命中），prompt 不变，输出跨启动不确定（基线是确定的），128K 在无编码器配置下 +11%（E388）；10-09 00:16 上生产；并发批槽对这台机器无益（常驻专家 41% < 上游门槛 50%，槽里不带 MTP）；IQ3_S 的 MMQ 分块/stream-K（E279/E280）；`--prefill` chunk 8192 即甜点（E296）；上游的 GDN 分块、Foresight、STAGE_PIN（上游自测对小卡无益或有害）。
-- **还有空间的**：PCIe 拓扑换 x16+x4（大 prompt 约 1.5×，但 27B 的张量并行会崩，二选一，由用户定）。prompt 里调优后最大的专家段已经测到头（E450–E452，见 0.5 节）；解码在这个显存容量下已到地板（命中率与草稿接受率）。四个引擎 PR 10-13 在 0.1.43.1 上各做了 10 对交错 A/B（#2226、#1167、#1992、#1151），等上游收录。
+- **已经到地板的（别再试）**：解码的配置级杠杆**单独调**全部否定——`--kv-resident` 缩小（E382）、单开 `--pipeline-windows 2`（E384，+1–6%）、pipeline-windows 1 下的 `--spec`/`--spec-min-p` 16 点网格（E385/b，4/0.5 是峰值）；**但组合有效**：`--spec 3 --spec-min-p 0.7 --pipeline-windows 2` 解码 4K +10–16%、32K +8–11%（E387，三轮确认；短草稿接受率 83% vs 68%，第二窗的推测才命中），prompt 不变，输出跨启动不确定（基线是确定的），128K 在无编码器配置下 +11%（E388）；10-09 00:16 上生产；并发批槽（10-08 结论：常驻专家 41% < 上游门槛 50%，槽里不带 MTP；**10-15 推翻**：加上槽位草稿、单路保留流水窗口和后来的 #2985，`"parallel": 2` 已是生产）；IQ3_S 的 MMQ 分块/stream-K（E279/E280）；`--prefill` chunk 8192 即甜点（E296）；上游的 GDN 分块、Foresight、STAGE_PIN（上游自测对小卡无益或有害）。
+- **还有空间的**：长 prompt 的 PCIe 拓扑（保持 x8/x8：Strata 上长 prompt 等 PCIe 只占 0.2–0.7%，但 <2K 的短 prompt 占 43–54%，E482）；解码时每窗多换入专家（E499：自适应缓存命中已 85%，完美的 8 窗预测器在现在的换入量下也不更好——杠杆是换入预算，未测）。四个 PR 在 0.2.0-beta 上等上游审（#3381、#3382，以及 10-20 带 E503 数据重开的 #3073 / #3095）。
 
 ## 0.5 时间花在哪：原版对比调优后（0.1.43.1，E449）
 
@@ -156,6 +156,15 @@ AiBox：2× RX 6900 XT（gfx1030，各 PCIe 4.0 x8）/ Ryzen 5 5600X / 128 GB，
 | 10-08 21:27 | E384 `--pipeline-windows 2` | 解码 +1–6% 但跨启动输出不确定（2/7 同），4K prompt −1–5%，否决 |
 | 10-08 21:50 | E385/E385b `--spec`×`--spec-min-p` 16 点 | 只有 5/0.6 在 32K +2.5%（单轮），其余全负；4/0.5 保留 |
 | 10-08 22:50 | 并发批槽评估 | 常驻专家 41% < 上游门槛 50%，槽里不带 MTP，不做 |
+| 10-13 23:40 | 生产 → `strata-144-hcps-fb15a4e6`：#1151 加 #2071 的 `STRATA_SELECT_SIMT=2`（上游只在 CUDA 生效，HIP 静默退回）（E457） | prompt +1%；后来送 PR #3073 |
+| 10-15 | 两三路并发（`"parallel": 2`，E463–E470）：A 单路保留 `--pipeline-windows`、B 长读在块边界让路、C 流水分组的槽位草稿（移植 davidbhoward） | 第二个请求首字 12 → 0.5 s，长读旁插短请求 37 → 8 s，两路 +6%；单路比独占配置 −2~6%；10-15 19:30 上生产；A 送 PR #3095 |
+| 10-18 13:09 | 上游 0.1.45（E475）：原版缺 A，单路解码慢 11–16%；0.1.45 + A + C + SIMT=2 与旧生产打平 | 生产 `strata-145-acx-2e127c66` |
+| 10-18 21:10 | 上游 #2985（`STRATA_PIPED_MTP=2`，JacobSussan）换掉我们的 C（E481） | 两路总吞吐 +13%，单路与交接不变，找针 14/14；生产 `strata-145-2985-3f53fb74` |
+| 10-19 02:20 | `STRATA_PREFILL_STREAM_MIN=2048`（E482–E485）：低于全量搬运阈值的块只搬路由到的专家，<2K 的读有 43–54% 时间在等 PCIe | 真实文本 1,090–1,542 token −6~17%，779 token 续写 −7%，≥2048 不变；3072 在 2–3K 变慢。合成词表提示让 3072 看起来更好（E483）——路由相关的开关必须用真实文本测 |
+| 10-19 17:40 | `STRATA_PREFILL_CPU_SHARE_BATCH=1`（我们的，E493/E494）：开 `--batch` 时上游直接关掉 CPU 分担 | <2048 token 的真实文本 −20~35%，455 token 续写 1.86 → 1.25 s，并发不变；生产 `strata-145-csb-de8b8636`；PR #3382 |
+| 10-19 20:30 | `STRATA_PROMPT_ATTN_RDNA2=1`（我们的，E495–E498e）：gfx103x 读 prompt 的注意力借用解码内核（64 单元切块 + 合并）；改为每（查询，KV 头）一个 block、在线 softmax、加权阶段每线程 4 维 | 每 8,192 token 块注意力 500 → 355 ms，34K / 133K −3.5%；质量门（8 段对 FP64 注意力参照）不劣；生产 `strata-145-pa-a6572b34`；PR #3381 |
+| 10-19 22:15 | SeqMoE 式专家预取先测上界（E499）：4 段真实 agent 对话的 26.6 万条路由记录回放 | 自适应缓存命中已 85.3 / 85.1%（高于全知静态集）；按现在的换入量，完美的 8 窗预测器也不更好——放弃；杠杆是每窗换入量（未测） |
+| 10-20 | 补丁按上游新规在 0.2.0 main 上复测（E501–E503）：setup.py 构建、默认路径逐字节、ctest 对照 main、10 对交错冷启动、FP64 参照质量门、CUDA 13.2 编译 | RDNA2 注意力 31K / 119K −3.49%（各 10/10）；CPU 分担 <2048 −28.8%（10/10）；送 #3381 / #3382。#3073 在 0.2.0 上 119K −6.5%，#3095 单路解码 +12~16%（各 10/10，E503） |
 
 ## 2. 机制上学到的
 
@@ -165,6 +174,11 @@ AiBox：2× RX 6900 XT（gfx1030，各 PCIe 4.0 x8）/ Ryzen 5 5600X / 128 GB，
 - Strata 能把 KV 放 RAM 是因为 QSA 稀疏（98.7% 块读命中 VRAM）；全注意力模型（qwen38-tp）没有这条路。
 - GFXOFF 与 ROCm CP barrier 的交互是卡死的根（#884、drm/amd #5945）；缓解靠 kernel-copy，不靠 guard。
 - 分层边界本身是个解码旋钮：去掉图片编码器后第二卡多 1.7 GiB，自动分层从 0–26/27–47 变成 0–24/25–47，32K 解码 74 → 69（−8%），命中率反而更高；开 pipeline-windows 2 后两种分层都到 82（E388）。没扫过手动 `layer_split`。
+- 短 prompt 是 PCIe 问题，长 prompt 不是：低于全量搬运阈值（`stream_all_min`）的块只搬路由到的专家，每 token 选 512 个里的约 10 个，几百 token 就碰到大部分专家——<2K 的读有 43–54% 时间在等 PCIe（E482）。所以有了 `STREAM_MIN=2048` 和短读的 CPU 分担（E485、E493）。
+- 路由相关的开关必须用真实文本测：重复的词表提示只路由到少数专家，会把一个设置测得比实际好（E483 对 E484/E485）。
+- 开批槽时上游会静默关掉单个请求的两样东西：`--pipeline-windows`（解码 −11~16%）和读 prompt 的 CPU 分担。两者都以可选开关的形式补回来了（#3095、#3382）。
+- 专家缓存不受预测限制（E499）：回放 26.6 万条真实路由，自适应缓存（85%）胜过全知静态集，Radiance 式衰减 LFU 只差 1.4 点；预知未来只有在每窗换入预算变大时才有用。
+- 内核精度：端到端 KL "更接近 FP64 参照"不代表内核更准——那在等价 FP32 路径的跑间波动之内；算子级 FP64 单测显示第一版反而误差大 1.2–1.4 倍，改成每块分块求和后修正，只多 1.6% 时间（E498e、E502）。
 
 ## 3. 我在这个题目上犯过的错
 
@@ -178,6 +192,12 @@ AiBox：2× RX 6900 XT（gfx1030，各 PCIe 4.0 x8）/ Ryzen 5 5600X / 128 GB，
 - 新建对比构建没 diff CMakeCache，漏了 STRATA_PREFILL_MMQ=ON 导致二分作废（10-04）。
 - 凭 27B 上的内核数字，在评论草稿里先写了"我们的 ggml 补丁能帮 #1897"，之后才在 Strata 里测——实测无效（E414）。先测再写。
 - 一条 gh 评论没发出去：泄露检查 `grep -c claude.ai` 匹配 0 时退出码是 1，截断了 `&&` 链；应写 `! grep -q`。
+- 照文档最简命令编上游 0.2.0，没加 setup.py 的 `STRATA_PREFILL_MMQ=ON`，读 prompt 慢 1.75 倍，差点当成回归——没先 diff CMakeCache，10-04 的错又犯一次（E501）。
+- 用合成词表提示测一个路由相关的开关，差点把错误的值上生产（E483）。
+- 凭端到端 KL 的排名说内核"更准"，FP64 单测一查是反的（E498e）。
+- 先停实验脚本、后停引擎：恢复 trap 把生产切回去时实验引擎还占着两张卡（约 12 s，没有请求进来）。先停引擎再停脚本；不要用 `pgrep -f` 匹配自己命令行里也有的字符串（E501）。
+- 专家缓存上界回放的第一版，把视野外的专家都当成"再也不用"，得出"全知比实际缓存还差"的荒谬数（E499）；导出钩子也只挂在了四条代码路径中的一条上。
+- PR 草稿里写了"失败集与 main 相同"，那份构建其实还没跑测试；发帖前查出来了。
 
 ## 4. 同一台机器上的稠密 27B：Qwen3.8-27B（UD-Q5_K_XL），llama.cpp `qwen38-tp`
 
